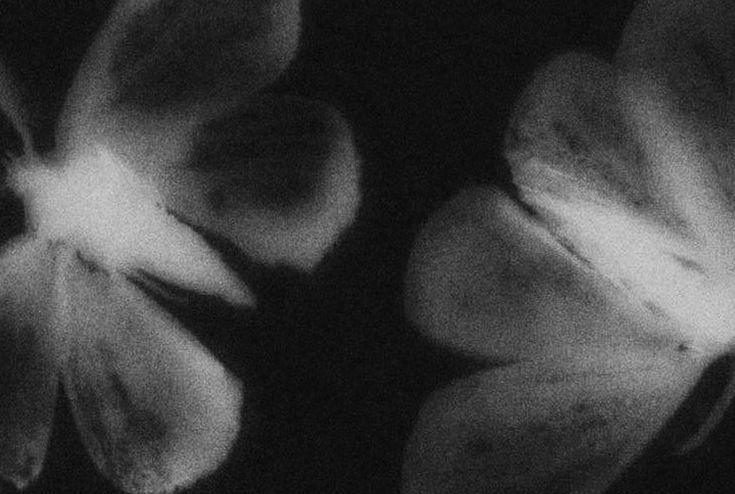
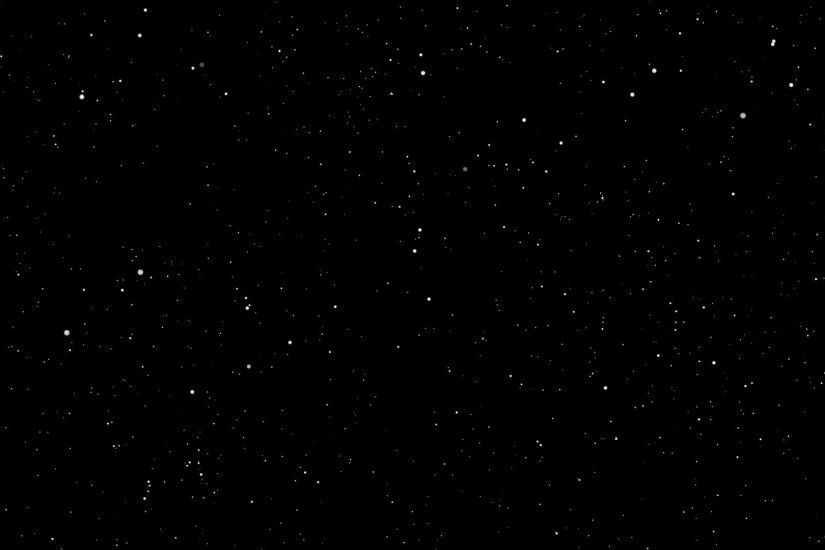
Add files via upload
v1.0.5

diff --git a/contact.html b/contact.html
@@ -36,73 +36,6 @@ body{
     background-repeat:no-repeat;
     background-attachment:fixed;
 }
-
-/* ================= LOCK SCREEN ================= */
-
-#contact-lock{
-
-    position:fixed;
-    inset:0;
-
-    background:#000;
-
-    display:flex;
-    flex-direction:column;
-    justify-content:center;
-    align-items:center;
-
-    z-index:9999;
-
-}
-
-#contact-lock h1{
-
-    color:white;
-    font-size:46px;
-    letter-spacing:4px;
-
-}
-
-#contact-lock p{
-
-    color:#777;
-    margin-top:15px;
-
-}
-
-#accessInput{
-
-    margin-top:35px;
-
-    width:320px;
-
-    background:transparent;
-
-    border:none;
-    border-bottom:2px solid #555;
-
-    color:white;
-
-    font-size:22px;
-
-    text-align:center;
-
-    padding:12px;
-
-    outline:none;
-
-}
-
-#message{
-
-    height:22px;
-
-    margin-top:20px;
-
-    color:#ff5c5c;
-
-}
-
 /* ================= PAGE ================= */
 
 #contact-page{
@@ -208,52 +141,6 @@ header{
 
 }
 
-/* ================= Skull Screen ================= */
-
-#skull-screen{
-
-    position:fixed;
-    inset:0;
-
-    background:black;
-
-    display:none;
-
-    justify-content:center;
-    align-items:center;
-
-    z-index:9998;
-
-    opacity:0;
-
-    transition:opacity .6s ease;
-
-}
-
-#skull-screen.show{
-
-    display:flex;
-
-    opacity:1;
-
-}
-
-#skull-screen.hide{
-
-    opacity:0;
-
-}
-
-#skull-screen img{
-
-    width:500px;
-    max-width:90%;
-
-    user-select:none;
-    pointer-events:none;
-
-}
-
 /* ================= Contact Cards ================= */
 
 .contact-grid{
@@ -354,31 +241,6 @@ header{
 
 <body>
 
-<!-- LOCK SCREEN -->
-
-<div id="contact-lock">
-
-    <h1>CONTACT REQUIRED</h1>
-
-    <p>Enter contact to get access.</p>
-
-    <input
-        type="text"
-        id="accessInput"
-        placeholder=">">
-
-    <p id="message"></p>
-
-</div>
-
-    <div id="skull-screen">
-
-    <img src="skull.png" alt="Skull">
-
-</div>
-
-<div id="contact-page">
-
 <header>
 
     <div class="logo">
@@ -448,71 +310,5 @@ header{
 </div>
 
 </main>
-
-</div>
-
-<script>
-
-const input = document.getElementById("accessInput");
-const message = document.getElementById("message");
-
-input.focus();
-
-input.addEventListener("keydown",function(e){
-
-    if(e.key !== "Enter") return;
-
-    if(input.value.trim().toLowerCase() === "contact"){
-
-        message.style.color="#7CFF9B";
-        message.textContent="Access Granted.";
-
-        setTimeout(()=>{
-
-            const lock = document.getElementById("contact-lock");
-            const skull = document.getElementById("skull-screen");
-            const page = document.getElementById("contact-page");
-
-            lock.style.display="none";
-
-            skull.style.display="flex";
-
-            requestAnimationFrame(()=>{
-                skull.classList.add("show");
-            });
-
-            setTimeout(()=>{
-
-                skull.classList.remove("show");
-                skull.classList.add("hide");
-
-                setTimeout(()=>{
-
-                    skull.style.display="none";
-
-                    page.style.display="block";
-
-                },600);
-
-            },5000);
-
-        },800);
-
-    }
-
-    else{
-
-        message.style.color="#ff5c5c";
-        message.textContent="Invalid Contact.";
-
-        input.value="";
-
-    }
-
-});
-
-</script>
-
 </body>
-
 </html>

diff --git a/about.html b/about.html
@@ -378,54 +378,42 @@ header{
 
     width:92%;
     max-width:1400px;
-
     margin:140px auto;
-
     text-align:center;
 
 }
 
 .interests-grid{
-
-    display:grid;
-
-    grid-template-columns:repeat(auto-fit,minmax(280px,1fr));
-
-    gap:30px;
-
-    margin-top:35px;
-
+    display: flex;
+    flex-wrap: wrap;
+    justify-content: center;
+    gap: 35px;
+    margin-top: 30px;
 }
 
 .interest-card{
-
     background:rgba(15,15,15,.45);
-
     backdrop-filter:blur(16px);
-
+    -webkit-backdrop-filter:blur(16px);
     border-radius:24px;
-
     padding:35px;
-
-    transition:.3s;
-
+    width:390px;
+    flex:0 0 390px;
     border:1px solid rgba(255,255,255,.08);
+    transition:
+        transform .35s ease,
+        box-shadow .35s ease,
+        border-color .35s ease;
 
 }
 
 .interest-card:hover{
-
     transform:translateY(-8px);
-
-    box-shadow:0 0 25px rgba(255,255,255,.12);
-
-}
-
-.interest-card img{
-
-    width:70px;
-
-    margin-bottom:20px;
+    border-color:rgba(255,255,255,.22);
+    box-shadow:
+        0 0 18px rgba(255,255,255,.12),
+        0 0 40px rgba(255,255,255,.08),
+        0 0 70px rgba(255,255,255,.04);
 
 }
 
@@ -622,25 +610,21 @@ footer p:first-child{
     <div class="interests-grid">
 
         <div class="interest-card">
-            <img src="web.png" alt="">
             <h3>Web Development</h3>
             <p>Building modern and responsive websites.</p>
         </div>
 
         <div class="interest-card">
-            <img src="ui.png" alt="">
             <h3>UI Design</h3>
             <p>Designing clean and minimal interfaces.</p>
         </div>
 
         <div class="interest-card">
-            <img src="minecraft.png" alt="">
             <h3>Minecraft</h3>
             <p>Creating servers and managing communities.</p>
         </div>
 
         <div class="interest-card">
-            <img src="design.png" alt="">
             <h3>Graphic Design</h3>
             <p>Logos, branding and visual content.</p>
         </div>

diff --git a/index.html b/index.html
@@ -304,7 +304,7 @@ header{
 
         <div class="profile-frame">
 
-            <img src="profile.png" alt="klws">
+            <img src="profile.jpg" alt="klws">
 
         </div>
 
